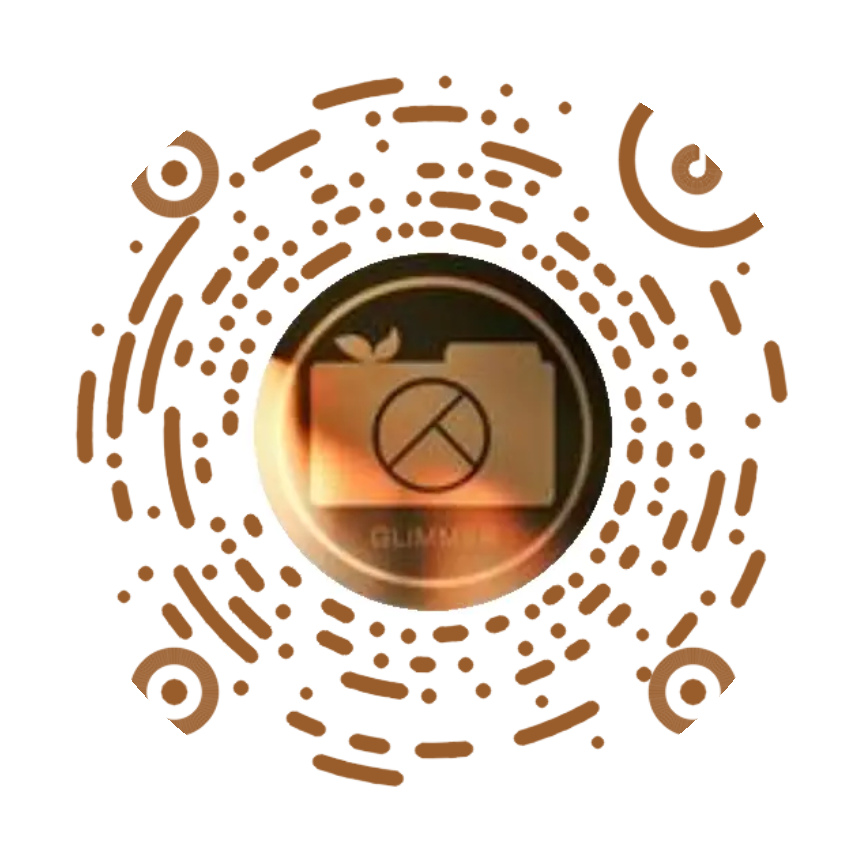
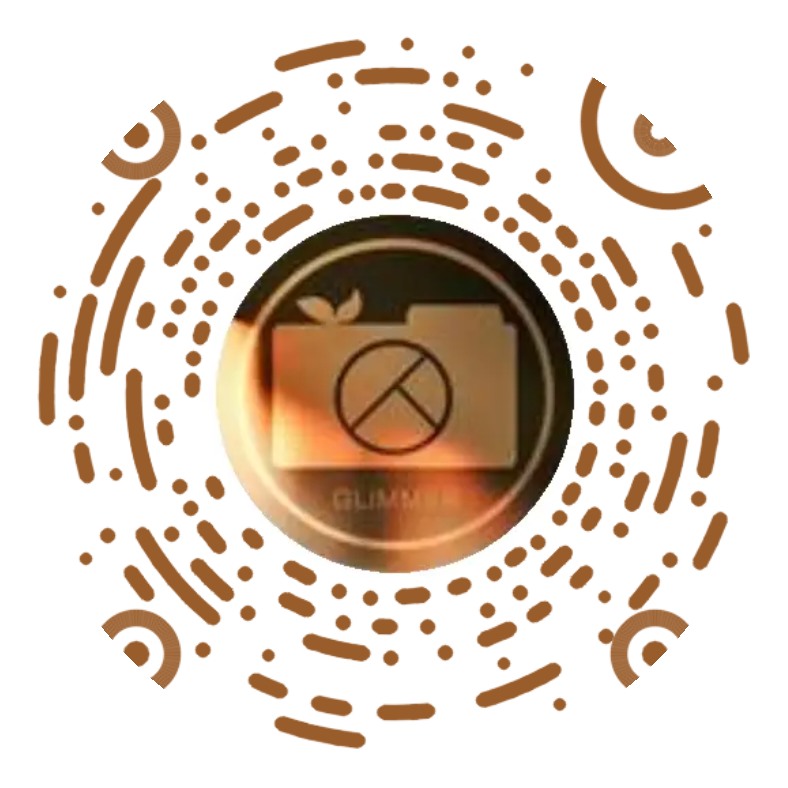
fix(v1.4.1): 修复二维码扫码、复制兜底与分享入口
- 抖音/QQ 二维码放大（clamp 176-224px）并支持点击放大扫码（.zoom 浮层）
- copyText 兼容 file://：仅安全上下文用 Clipboard API，任何失败回落 execCommand
- 抖音码重裁 788²；官方 QQ 码重生成 592²（qm.qq.com/q/5kNfxmqBF0）
- 移除 QQ「加为好友」跳转与 02 页「分享到 QQ」入口
- 新增 _tools/_check_share.js 回归断言；README 更新记录补 v1.4.1

Changed region(s): [[0.0305, 0.0305, 0.9746, 0.9746], [0.7005, 0.8832, 0.731, 0.9137], [0.0914, 0.7005, 0.1218, 0.731]]

diff --git a/assets/js/site.js b/assets/js/site.js
@@ -394,6 +394,48 @@
 
   window.Lightbox = LB;
 
+  /* ---------------------------------------------------------- 二维码放大
+     点击 [data-zoom] 的二维码，弹出可放大查看的浮层，方便手机扫码。
+     仅做轻量放大，不依赖任何外部库。 */
+  var ZOOM = (function () {
+    var el, imgEl;
+    function ensure() {
+      if (el) return;
+      el = document.createElement("div");
+      el.className = "zoom";
+      el.setAttribute("aria-hidden", "true");
+      el.innerHTML =
+        '<div class="zoom__inner">' +
+          '<img alt="二维码大图">' +
+          '<p class="zoom__hint">点击空白处关闭 · 长按可保存</p>' +
+        "</div>";
+      document.body.appendChild(el);
+      imgEl = el.querySelector("img");
+      el.addEventListener("click", close);
+      document.addEventListener("keydown", function (e) {
+        if (e.key === "Escape" && el.classList.contains("is-open")) close();
+      });
+    }
+    function open(src) {
+      ensure();
+      imgEl.src = src;
+      el.classList.add("is-open");
+      document.body.style.overflow = "hidden";
+    }
+    function close() {
+      if (!el || !el.classList.contains("is-open")) return;
+      el.classList.remove("is-open");
+      document.body.style.overflow = "";
+    }
+    return { open: open, close: close };
+  })();
+
+  function bindZoom() {
+    $$("[data-zoom]").forEach(function (img) {
+      img.addEventListener("click", function () { ZOOM.open(img.getAttribute("src")); });
+    });
+  }
+
   /* ---------------------------------------------------------- 作品卡片 */
   function esc(s) {
     return String(s == null ? "" : s).replace(/[&<>"]/g, function (c) {
@@ -449,30 +491,38 @@
   /* ---------------------------------------------------------- 分享与复制
      [data-copy]      复制按钮自带的值
      [data-copy-link] 复制当前页链接
-     [data-copy-blurb]复制「标题 + 描述 + 链接」的整段分享文案
-     [data-share-qq]  调起 QQ 官方网页分享（抖音无网页分享接口，走复制） */
+     [data-copy-blurb]复制「标题 + 描述 + 链接」的整段分享文案 */
   function shareBits() {
     var pageUrl = location.href.split("#")[0];
     var title = document.title;
     var meta = document.querySelector('meta[name="description"]');
     var desc = (meta && meta.getAttribute("content")) || SITE.slogan;
 
+    // 复制文本。注意：双击 index.html 走 file:// 时浏览器不是安全上下文，
+    // navigator.clipboard 可能不存在、也可能存在但 writeText 直接 reject。
+    // 因此只在「安全上下文」且 API 可用时才用原生接口，任何失败都回落到 execCommand。
     function copyText(text) {
-      if (navigator.clipboard && navigator.clipboard.writeText) {
-        return navigator.clipboard.writeText(text);
+      function legacy() {
+        return new Promise(function (resolve, reject) {
+          var ta = document.createElement("textarea");
+          ta.value = text;
+          ta.setAttribute("readonly", "");
+          ta.style.position = "fixed";
+          ta.style.top = "-1000px";
+          ta.style.opacity = "0";
+          document.body.appendChild(ta);
+          ta.select();
+          ta.setSelectionRange(0, text.length);
+          var ok = false;
+          try { ok = document.execCommand("copy"); } catch (e) { ok = false; }
+          ta.remove();
+          ok ? resolve() : reject();
+        });
       }
-      return new Promise(function (resolve, reject) {
-        var ta = document.createElement("textarea");
-        ta.value = text;
-        ta.style.position = "fixed";
-        ta.style.top = "-1000px";
-        ta.style.opacity = "0";
-        document.body.appendChild(ta);
-        ta.select();
-        try { document.execCommand("copy") ? resolve() : reject(); }
-        catch (e) { reject(e); }
-        ta.remove();
-      });
+      if (window.isSecureContext && navigator.clipboard && navigator.clipboard.writeText) {
+        return navigator.clipboard.writeText(text).catch(function () { return legacy(); });
+      }
+      return legacy();
     }
 
     // 临时改文案做反馈：备份 innerHTML，避免把按钮里的箭头图标弄丢
@@ -500,17 +550,6 @@
     bindCopy("[data-copy-blurb]", function () {
       return title + "\n" + desc + "\n" + pageUrl;
     }, "分享文案已复制 ✓");
-
-    $$("[data-share-qq]").forEach(function (b) {
-      b.addEventListener("click", function () {
-        var u = "https://connect.qq.com/widget/shareqq/index.html?url=" +
-          encodeURIComponent(pageUrl) +
-          "&title=" + encodeURIComponent(title) +
-          "&summary=" + encodeURIComponent(desc) +
-          "&source=" + encodeURIComponent(SITE.name);
-        window.open(u, "_blank", "noopener,noreferrer,width=760,height=640");
-      });
-    });
   }
 
   /* ---------------------------------------------------------- 启动 */
@@ -522,6 +561,7 @@
     counters();
     parallax();
     shareBits();
+    bindZoom();
     // 截图模式下的起始偏移：?shot=1&begin=4000
     if (SHOT) {
       var b = location.search.match(/begin=(\d+)/);

diff --git a/_tools/_check_share.js b/_tools/_check_share.js
@@ -1,0 +1,58 @@
+const fs = require("fs");
+const path = require("path");
+const { JSDOM } = require("jsdom");
+
+const root = "D:/ai工作/微光网站";
+const html = fs.readFileSync(path.join(root, "share.html"), "utf8");
+const js = fs.readFileSync(path.join(root, "assets/js/site.js"), "utf8");
+
+const bodyMatch = html.match(/<body[^>]*>([\s\S]*)<\/body>/i);
+let body = bodyMatch ? bodyMatch[1] : html;
+body = body.replace(/<script[\s\S]*?<\/script>/gi, ""); // 去掉外链脚本，避免 jsdom 加载
+
+const dom = new JSDOM("<!DOCTYPE html><html><body>" + body + "</body></html>", {
+  runScripts: "outside-only",
+  pretendToBeVisual: true,
+  url: "https://example.com/share.html",
+});
+const w = dom.window, d = w.document;
+w.addEventListener("error", (e) => console.error("window error:", e.message));
+
+try { w.eval(js); } catch (e) { console.error("eval error:", e.message); }
+
+setTimeout(() => {
+  const r = [];
+  r.push("nav rendered     = " + !!d.querySelector(".nav"));
+  r.push("data-zoom count  = " + d.querySelectorAll("[data-zoom]").length);
+  r.push("data-share-qq    = " + d.querySelectorAll("[data-share-qq]").length + "  (期望 0)");
+  r.push("wpa.qq.com link  = " + d.querySelectorAll('a[href*="wpa.qq.com"]').length + "  (期望 0)");
+  r.push("data-copy-blurb  = " + d.querySelectorAll("[data-copy-blurb]").length + "  (期望 1)");
+  r.push("data-copy-link   = " + d.querySelectorAll("[data-copy-link]").length + "  (期望 1)");
+
+  const qr = d.querySelector("[data-zoom]");
+  if (!qr) { r.push("NO [data-zoom] FOUND"); console.log(r.join("\n")); return; }
+  qr.dispatchEvent(new w.MouseEvent("click", { bubbles: true }));
+  const z = d.querySelector(".zoom");
+  r.push("zoom built       = " + !!z);
+  r.push("zoom is-open     = " + (z ? z.classList.contains("is-open") : "n/a"));
+  const zi = z && z.querySelector("img");
+  r.push("zoom img src     = ..." + (zi ? (zi.getAttribute("src") || "").slice(-22) : "n/a"));
+  if (z) {
+    z.dispatchEvent(new w.MouseEvent("click", { bubbles: true }));
+    r.push("zoom closed      = " + !z.classList.contains("is-open"));
+  }
+
+  // 复制兜底验证：jsdom 无 Clipboard API，应走 execCommand 兜底
+  d.execCommand = function () { return true; };
+  const blurb = d.querySelector("[data-copy-blurb]");
+  blurb.dispatchEvent(new w.MouseEvent("click", { bubbles: true }));
+  setTimeout(() => {
+    r.push("copy-blurb 反馈  = " + JSON.stringify(blurb.textContent.trim()));
+    const link = d.querySelector("[data-copy-link]");
+    link.dispatchEvent(new w.MouseEvent("click", { bubbles: true }));
+    setTimeout(() => {
+      r.push("copy-link 反馈   = " + JSON.stringify(link.textContent.trim()));
+      console.log(r.join("\n"));
+    }, 150);
+  }, 150);
+}, 500);

diff --git a/share.html b/share.html
@@ -62,7 +62,10 @@
 
     <div class="channels" data-reveal>
       <div class="channel">
-        <img class="channel__qr" src="assets/img/brand/douyin-qr.png" alt="微光摄影社抖音二维码" loading="lazy" decoding="async" width="864" height="864">
+        <div>
+          <img class="channel__qr" src="assets/img/brand/douyin-qr.png" alt="微光摄影社抖音二维码" loading="lazy" decoding="async" width="788" height="788" data-zoom>
+          <p class="channel__hint">点击二维码可放大扫描</p>
+        </div>
         <div class="channel__body">
           <span class="channel__kicker">Douyin　抖音</span>
           <div class="channel__name">抖音官方账号</div>
@@ -75,14 +78,16 @@
       </div>
 
       <div class="channel">
-        <img class="channel__qr" src="assets/img/brand/qq-qr.png" alt="微光摄影社官方 QQ 二维码" loading="lazy" decoding="async" width="518" height="518">
+        <div>
+          <img class="channel__qr" src="assets/img/brand/qq-qr.png" alt="微光摄影社官方 QQ 二维码" loading="lazy" decoding="async" width="592" height="592" data-zoom>
+          <p class="channel__hint">点击二维码可放大扫描</p>
+        </div>
         <div class="channel__body">
           <span class="channel__kicker">QQ　官方 QQ</span>
           <div class="channel__name">官方 QQ</div>
           <div class="channel__id">QQ：1159554310</div>
           <div class="channel__act">
             <button class="chip" type="button" data-copy="1159554310">复制 QQ 号</button>
-            <a class="chip" href="https://wpa.qq.com/msgrd?v=3&amp;uin=1159554310&amp;site=qq&amp;menu=yes" target="_blank" rel="noopener">加为好友</a>
           </div>
         </div>
       </div>
@@ -102,14 +107,11 @@
     </div>
 
     <p class="lede" style="max-width:56ch" data-reveal>
-      一键把本站分享到 QQ，或复制链接与分享文案，发送到抖音、微信或班级群。
+      复制本站链接或分享文案，一键发送到抖音、微信或班级群。
     </p>
 
     <div class="share-actions" style="margin-top:clamp(28px,3.6vw,44px)" data-reveal>
-      <button class="btn" type="button" data-share-qq style="background:#fff;color:var(--ink);border-color:#fff">
-        分享到 QQ <span class="btn__arrow">→</span>
-      </button>
-      <button class="btn btn--light" type="button" data-copy-link>复制本站链接</button>
+      <button class="btn" type="button" data-copy-link style="background:#fff;color:var(--ink);border-color:#fff">复制本站链接</button>
       <button class="btn btn--light" type="button" data-copy-blurb>复制分享文案</button>
     </div>
 

diff --git a/assets/css/main.css b/assets/css/main.css
@@ -1347,13 +1347,59 @@ html.no-anim [data-reveal] { opacity: 1 !important; transform: none !important; 
 .channel:hover { transform: translateY(-4px); box-shadow: var(--sh-2); }
 .channel__qr {
   flex: none;
-  width: clamp(96px, 12vw, 124px);
+  width: clamp(176px, 20vw, 224px);
   height: auto;              /* 必须显式声明：否则 <img height> 属性会被当成固定高度，二维码被纵向拉伸 */
   aspect-ratio: 1 / 1;
-  border-radius: 10px;
+  border-radius: 12px;
   background: #fff;
   box-shadow: inset 0 0 0 1px var(--line-soft), var(--sh-1);
+  cursor: zoom-in;
+  transition: transform .45s var(--ease-out), box-shadow .45s;
 }
+.channel__qr:hover { transform: scale(1.025); box-shadow: var(--sh-2); }
+.channel__hint {
+  margin-top: 10px;
+  font-size: .72rem;
+  letter-spacing: .04em;
+  color: var(--ink-3);
+}
+@media (max-width: 640px) {
+  .channel { flex-direction: column; align-items: center; text-align: center; }
+  .channel__qr { width: min(64vw, 240px); }
+  .channel__act { justify-content: center; }
+}
+
+/* 二维码放大查看：手机扫码需要更大的码面 */
+.zoom {
+  position: fixed;
+  inset: 0;
+  z-index: 1200;
+  display: none;
+  place-items: center;
+  padding: 24px;
+  background: rgba(20, 16, 13, .88);
+  -webkit-backdrop-filter: blur(6px);
+  backdrop-filter: blur(6px);
+  cursor: zoom-out;
+}
+.zoom.is-open { display: grid; }
+.zoom__inner { text-align: center; }
+.zoom__inner img {
+  width: min(90vw, 460px);
+  height: auto;
+  background: #fff;
+  border-radius: 14px;
+  padding: clamp(10px, 2vw, 18px);
+  box-shadow: var(--sh-3);
+}
+.zoom__hint {
+  margin-top: 16px;
+  font-size: .78rem;
+  letter-spacing: .12em;
+  color: rgba(255, 255, 255, .74);
+}
+
+.share-actions { display: flex; flex-wrap: wrap; gap: 12px; }
 .channel__body { min-width: 0; }
 .channel__kicker {
   font-family: var(--mono);

diff --git a/about.html b/about.html
@@ -379,7 +379,10 @@
 
     <div class="channels" data-reveal>
       <div class="channel">
-        <img class="channel__qr" src="assets/img/brand/douyin-qr.png" alt="微光摄影社抖音二维码" loading="lazy" decoding="async" width="864" height="864">
+        <div>
+          <img class="channel__qr" src="assets/img/brand/douyin-qr.png" alt="微光摄影社抖音二维码" loading="lazy" decoding="async" width="788" height="788" data-zoom>
+          <p class="channel__hint">点击二维码可放大扫描</p>
+        </div>
         <div class="channel__body">
           <span class="channel__kicker">Douyin　抖音</span>
           <div class="channel__name">抖音官方账号</div>
@@ -392,14 +395,16 @@
       </div>
 
       <div class="channel">
-        <img class="channel__qr" src="assets/img/brand/qq-qr.png" alt="微光摄影社官方 QQ 二维码" loading="lazy" decoding="async" width="518" height="518">
+        <div>
+          <img class="channel__qr" src="assets/img/brand/qq-qr.png" alt="微光摄影社官方 QQ 二维码" loading="lazy" decoding="async" width="592" height="592" data-zoom>
+          <p class="channel__hint">点击二维码可放大扫描</p>
+        </div>
         <div class="channel__body">
           <span class="channel__kicker">QQ　官方 QQ</span>
           <div class="channel__name">官方 QQ</div>
           <div class="channel__id">QQ：1159554310</div>
           <div class="channel__act">
             <button class="chip" type="button" data-copy="1159554310">复制 QQ 号</button>
-            <a class="chip" href="https://wpa.qq.com/msgrd?v=3&amp;uin=1159554310&amp;site=qq&amp;menu=yes" target="_blank" rel="noopener">加为好友</a>
           </div>
         </div>
       </div>

diff --git a/README.md b/README.md
@@ -75,6 +75,15 @@
 
 ## 更新记录
 
+> 版本号规则：小修小补递增末位（如 1.4.1、1.4.2）；重大更新会以更醒目的方式呈现。
+
+### v1.4.1 · 2026-09-27
+
+- **修复**｜抖音二维码在页面上过小、不易扫出——整体放大并支持点击放大查看，方便手机扫码。
+- **修复**｜「复制本站链接 / 复制分享文案」在本地双击打开（file://）时无法复制——改为优先使用系统剪贴板、失败自动兜底，本地与线上都能用。
+- **调整**｜官方 QQ 二维码更换为最新版；移除「加为好友」跳转按钮，统一改为扫码添加。
+- **调整**｜「分享微光」页移除「分享到 QQ」入口，保留复制链接与复制分享文案。
+
 ### v1.4.0 · 2026-09-27
 
 - **新增**｜「关于我们」新增「我们的部门」板块：摄影部、模特部、组织部、文编部四个部门的定位与工作内容逐一介绍。
